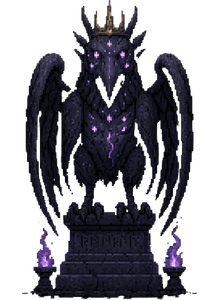
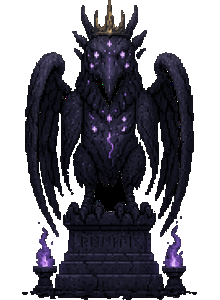
Ver.1.582: 生成画像の「くり抜かれた穴」を塞ぐ（ショートケーキの生クリーム／邪神の巨像）。
■ 原因は半透明ではなく **alpha=0 の穴** だった
gpt-image-1 の透過モードは、絵の中の明るい部分・平坦な部分まで背景と誤認して**くり抜く**。
くり抜かれた画素は alpha=0 だが **RGBには正しい色が残っている**
（例: 生クリームは rgba(199,175,130,0)＝クリーム色なのに完全透過）。
白背景では穴から白が透けて正しく見えるため気づかないが、図鑑の暗いカード(#26264a)や
洞窟の壁の上では背景が透けて別物に見える（ユーザー指摘＝ケーキ上部・巨像の翼と胴体）。

⚠1.578のアルファ2値化(harden-icon-alpha.mjs)では直らなかった理由もこれ:
　閾値128で2値化しても **alpha=0 は 0 のまま**なので穴が残る。半透明の縁が消えただけだった。
⚠「白で上書き描画」も不要だった: RGBは既に正しいので、**穴を不透明に戻すだけ**でよい。

■ 修正: tools/fill-icon-holes.mjs を新設
画像の外周から透明画素を塗りつぶし式にたどって**本当の外側**を特定し、
それ以外（＝シルエット内側の穴）を alpha=255 にする。
外側と地続きの隙間（翼と胴体の間など、背景が見えて当然の場所）は塗らないので、
巨像のシルエットは崩れない。

・images/icon_shortcake.png … 1024pxの生成元から作り直し（穴を塞ぐ→トリム→32px→アルファ2値化）
　塞いだ穴 155,839画素。生クリームが暗背景でも白く出る
・images/ug_idol.png … 出荷している 220x300 をそのまま修正（塞いだ穴 15,439画素）
　⚠寸法は UG_IDOL_W/H=220x300 前提なのでリサイズしない

実測: 両ファイルとも半透明画素0・寸法変化なし。
図鑑のカード色(#26264a)と洞窟の壁色の上で前後比較し、背景が透けなくなったことを確認。console エラーゼロ。

⚠core-state.js の TEST_START_AFTER_R6=true は実機テスト中のため意図的にコミットしていない。

diff --git a/index.html b/index.html
@@ -76,7 +76,7 @@
                 box-sizing: border-box;
             }
             body::after {
-                content: "Ver.1.581";
+                content: "Ver.1.582";
                 position: fixed;
                 bottom: 8px; right: 10px;
                 color: rgba(255,255,255,0.5);
@@ -830,7 +830,7 @@
                     color: #fff; font-size: clamp(7px, 1.2vw, 12px);
                     text-shadow: 2px 2px 4px rgba(0,0,0,0.8);
                     font-weight: bold;">
-                    <span style="background: rgba(0,0,0,0.4); padding: 2px 6px; border-radius: 5px;">Ver.1.581</span>
+                    <span style="background: rgba(0,0,0,0.4); padding: 2px 6px; border-radius: 5px;">Ver.1.582</span>
                 </div>
 
                 <!-- クレジット：右下 -->
